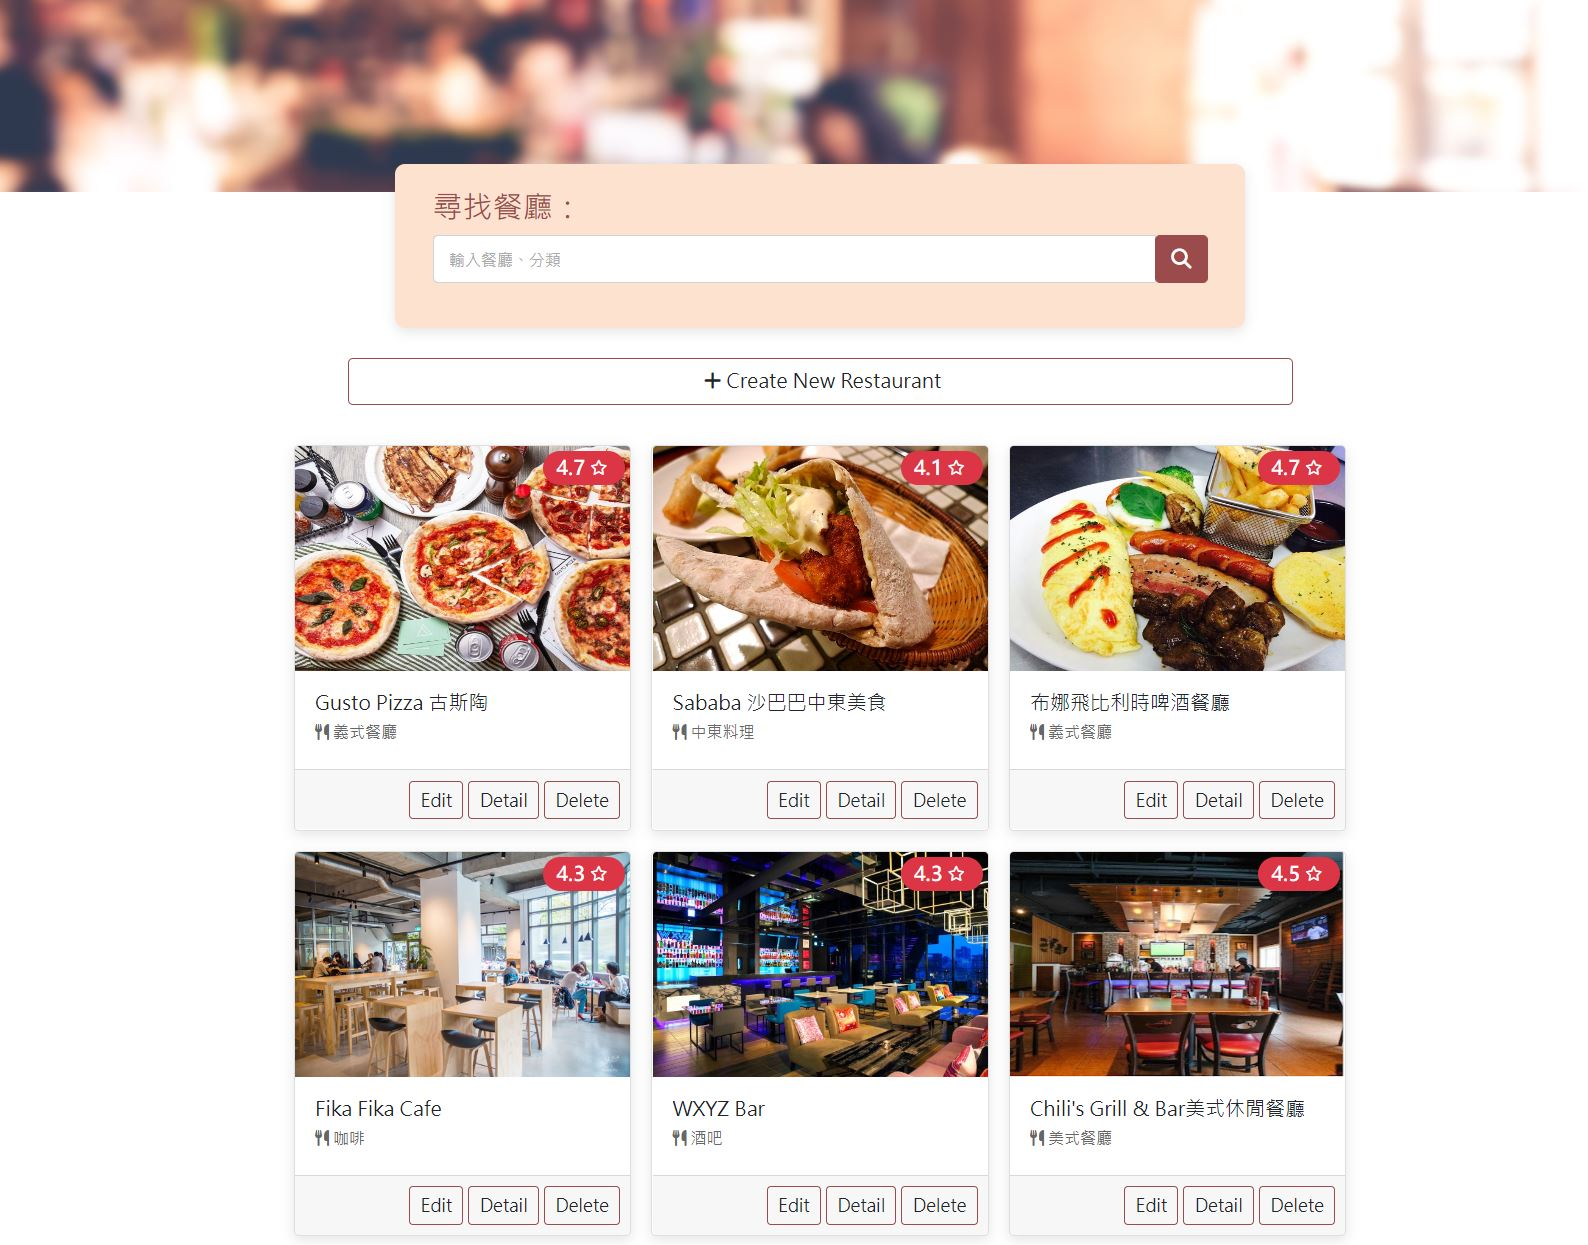
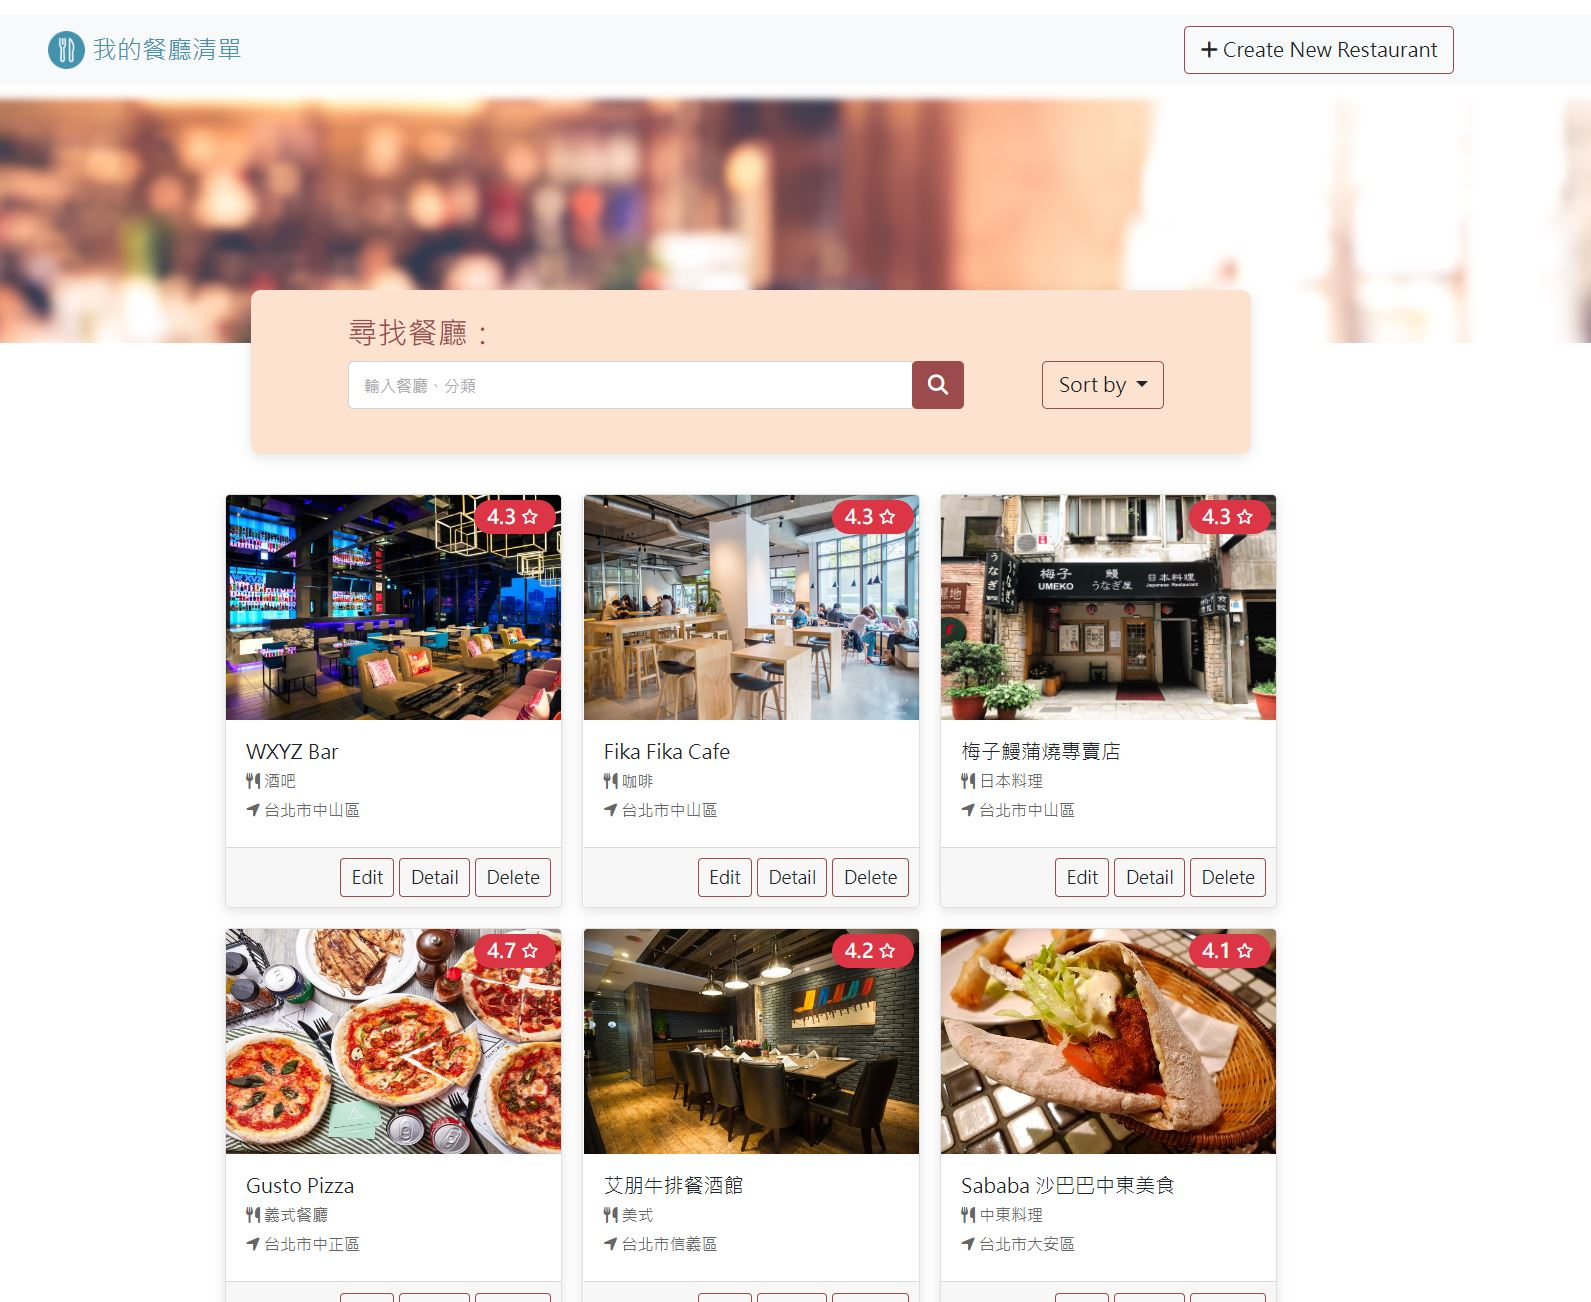
modify readme

diff --git a/routes/index.js b/routes/index.js
@@ -6,6 +6,7 @@ const router = express.Router()
 const home = require('./modules/home')
 const restaurants = require('./modules/restaurants')
 const search = require('./modules/search')
+
 // 將網址結構符合 / 字串的 request 導向 home 模組
 router.use('/', home)
 router.use('/restaurants', restaurants)

diff --git a/routes/modules/home.js b/routes/modules/home.js
@@ -47,6 +47,5 @@ router.get('/sort_by_location', (req, res) => {
     .then((restaurants) => res.render('index', { restaurants }))
     .catch((error) => console.error(error))
 })
-
 // 匯出路由器
 module.exports = router

diff --git a/routes/modules/search.js b/routes/modules/search.js
@@ -24,5 +24,6 @@ router.get('/', (req, res) => {
     })
     .catch((error) => console.log(error))
 })
+
 // 匯出路由器
 module.exports = router

diff --git a/README.md b/README.md
@@ -1,40 +1,57 @@
 # Restaurant List
+
 ![餐廳清單](img/screen_shot.JPG)
 
 ## 介紹
+
 可利用關鍵字搜尋餐廳名稱及類別，點擊各餐廳可得知相關詳細資訊
 
 ## 功能
+
 1. 輸入關鍵字可搜尋餐廳名稱可篩選出相關餐廳
 2. 點擊該餐廳可取得餐廳詳細資訊
 3. 可編輯餐廳資訊
 4. 可新增餐廳
+5. 可以英文、餐廳類型、地區排序
 
 ## 開始使用
+
 1. 請確認已安裝 node.js 與 npm (使用版本請見文件最下方)
-2. 下載或clone 此專案至本地資料夾
-    ```bash
+2. 下載或 clone 此專案至本地資料夾
+
+   ```bash
    git clone https://github.com/dinsky21/Restaurant-List.git
    ```
-3. 請先執行以下指令，建立種子資料
-    ```bash
-    npm run seed
-    ```
-4. 若要啟網站，使用teminal於該資料夾內執行
+
+3. 在資料夾建立.env 檔案，並將以下 code 複製進入此檔案，並注意須將中文區域更改為個人的 mongoDB 資訊
+
+```bash
+MONGODB_URI =
+  "mongodb+srv://(mongodb 帳號):(密碼)@cluster0.w9mfqtb.mongodb.net/(MongoDB資料庫名稱)?retryWrites=true&w=majority"
+```
+
+4. 請先執行以下指令，建立種子資料
+
+```bash
+npm run seed
+```
+
+5. 若要啟網站，使用 terminal 於該資料夾內執行
 
    ```bash
    npm run dev
    ```
 
-5. 若看見下方訊息則代表網站順利運行，打開瀏覽器輸入網址 localhost:3000 可開始使用
+6. 若看見下方訊息則代表網站順利運行，打開瀏覽器輸入網址 localhost:3000 可開始使用
 
    ```bash
    The express is running on localhost:3000
    ```
-6. 若需結束local hosting，請於tirminal內按下crtl + c即可
-     
+
+7. 若需結束 local hosting，請於 terminal 內按下 ctrl + c 即可
 
 ## 開發工具
+
 - node.js 16.17.0
 - Express 4.18.2
 - Express-Handlebars 3.0.0
@@ -42,3 +59,4 @@
 - Font Awesome 5.8.1
 - mongoose 6.7.0
 - dotenv 16.0.3
+- method-override 3.0.0
